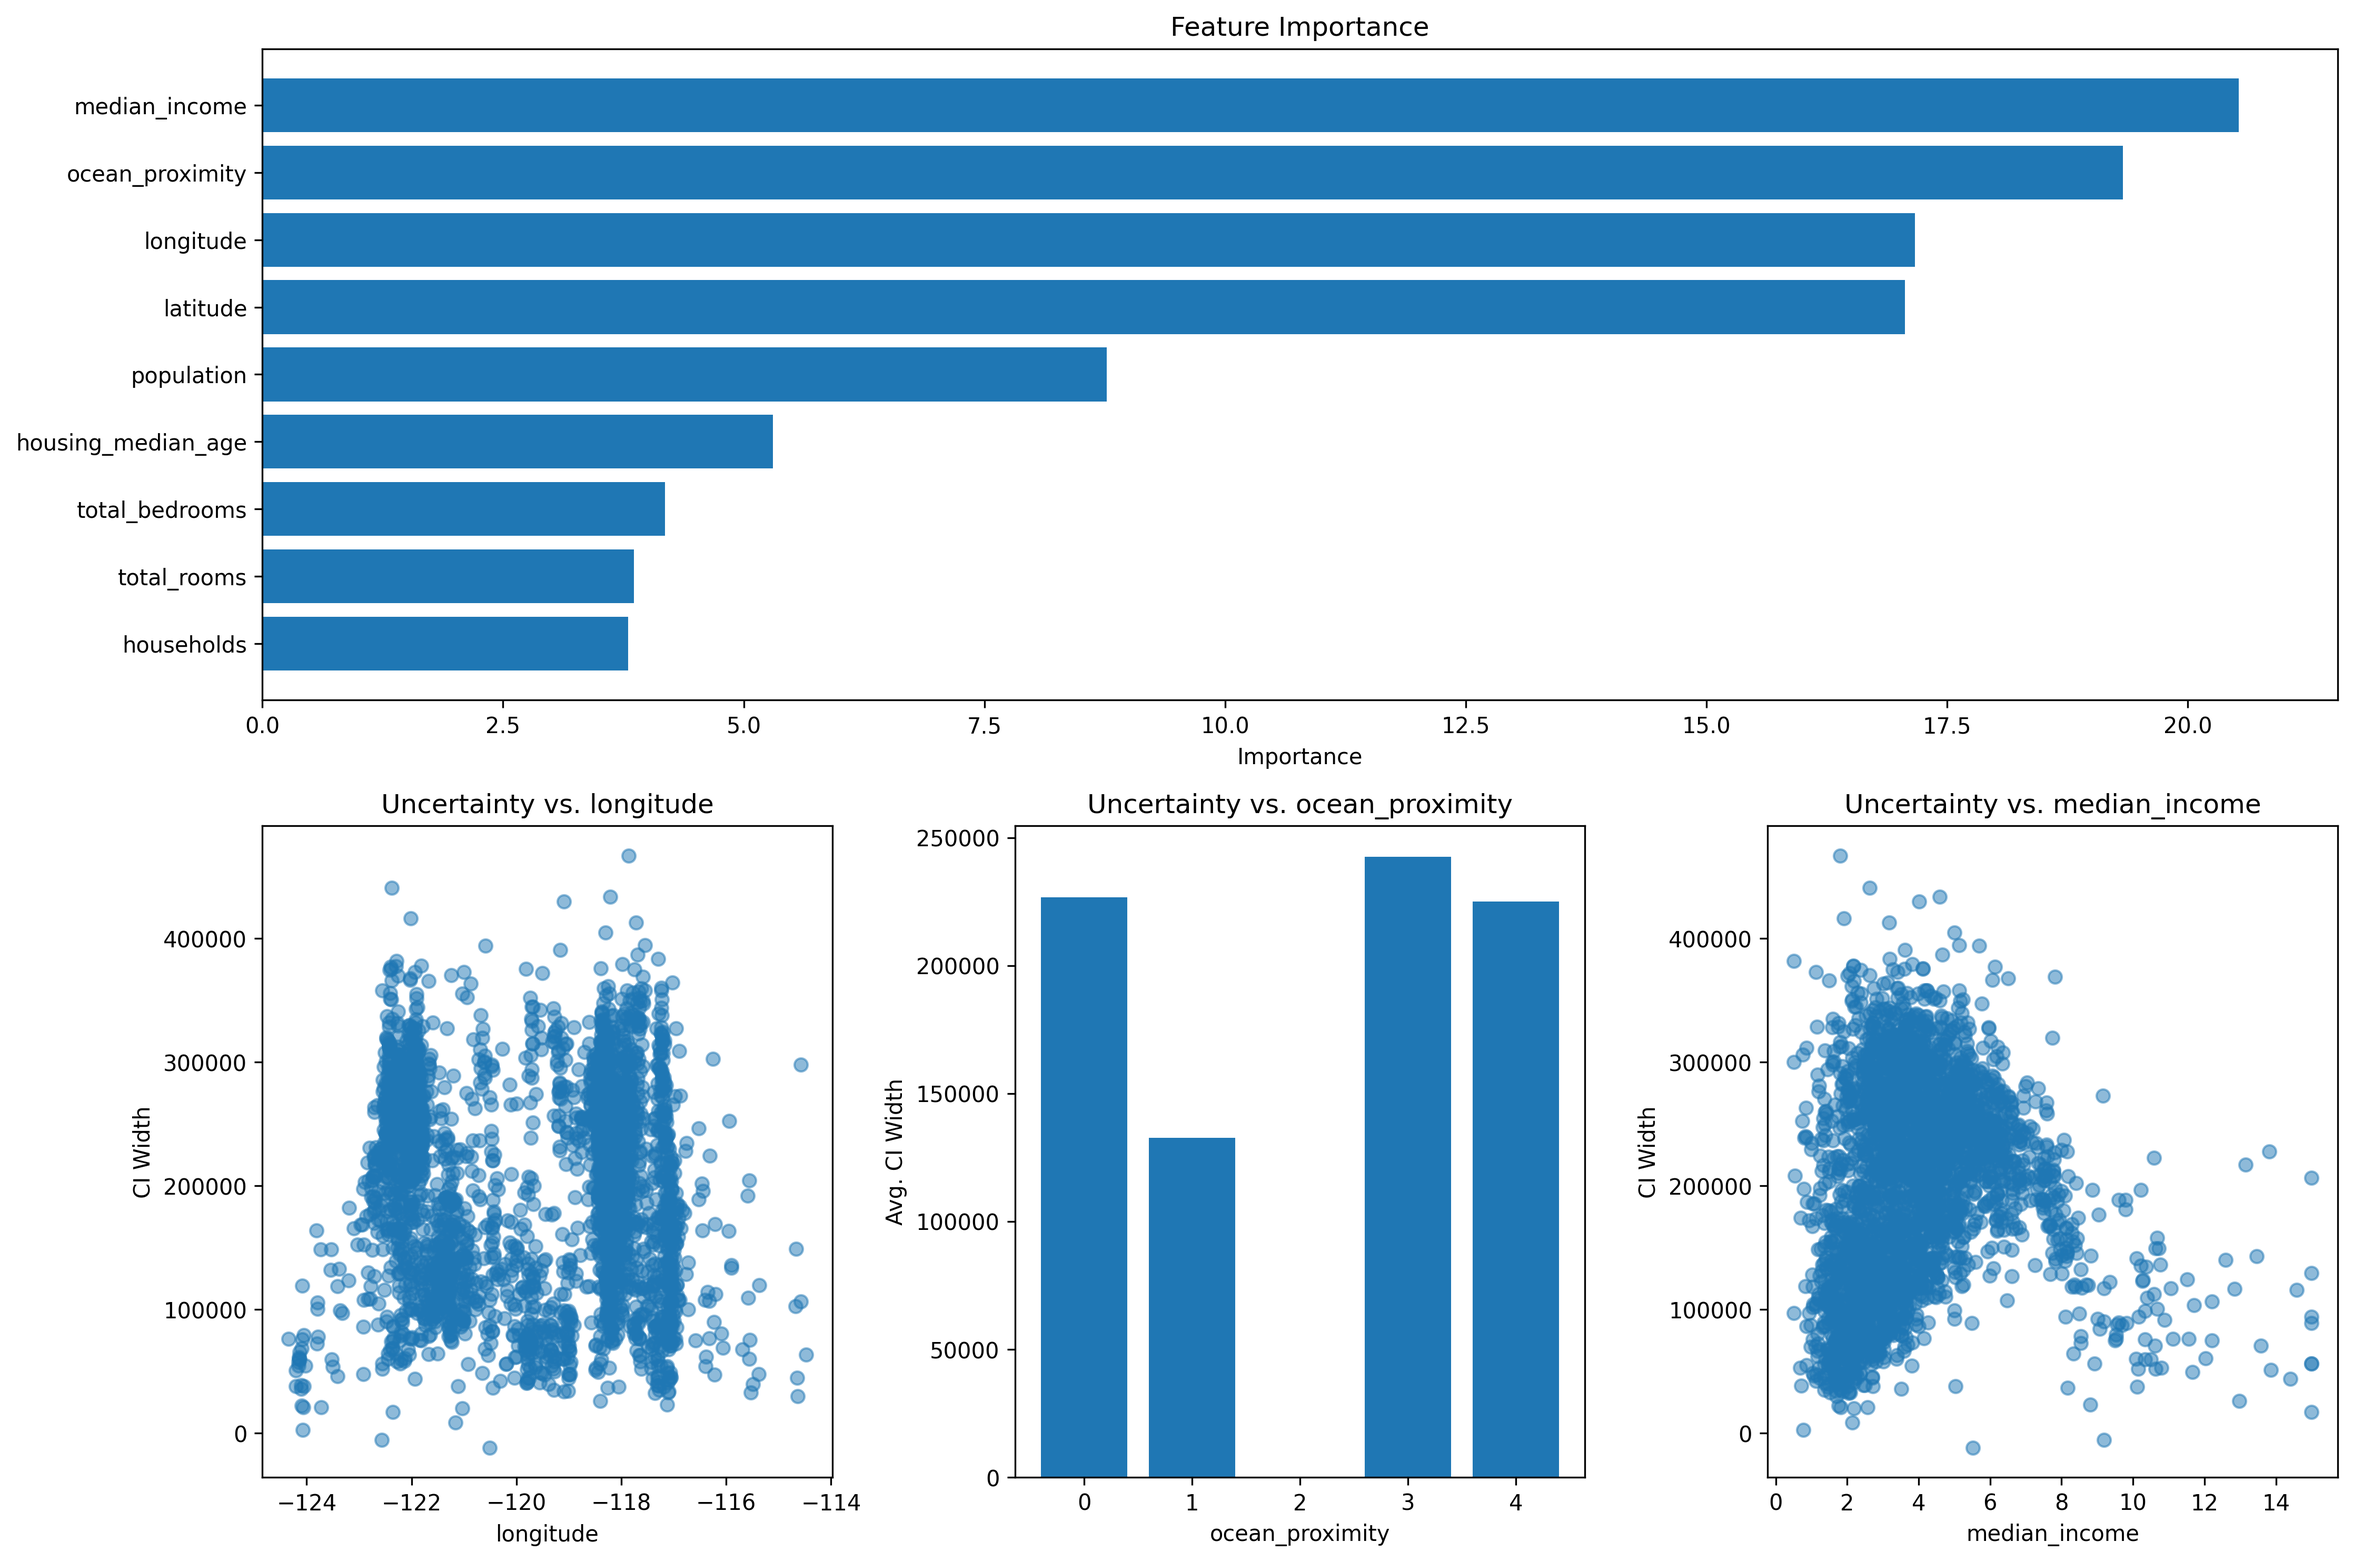
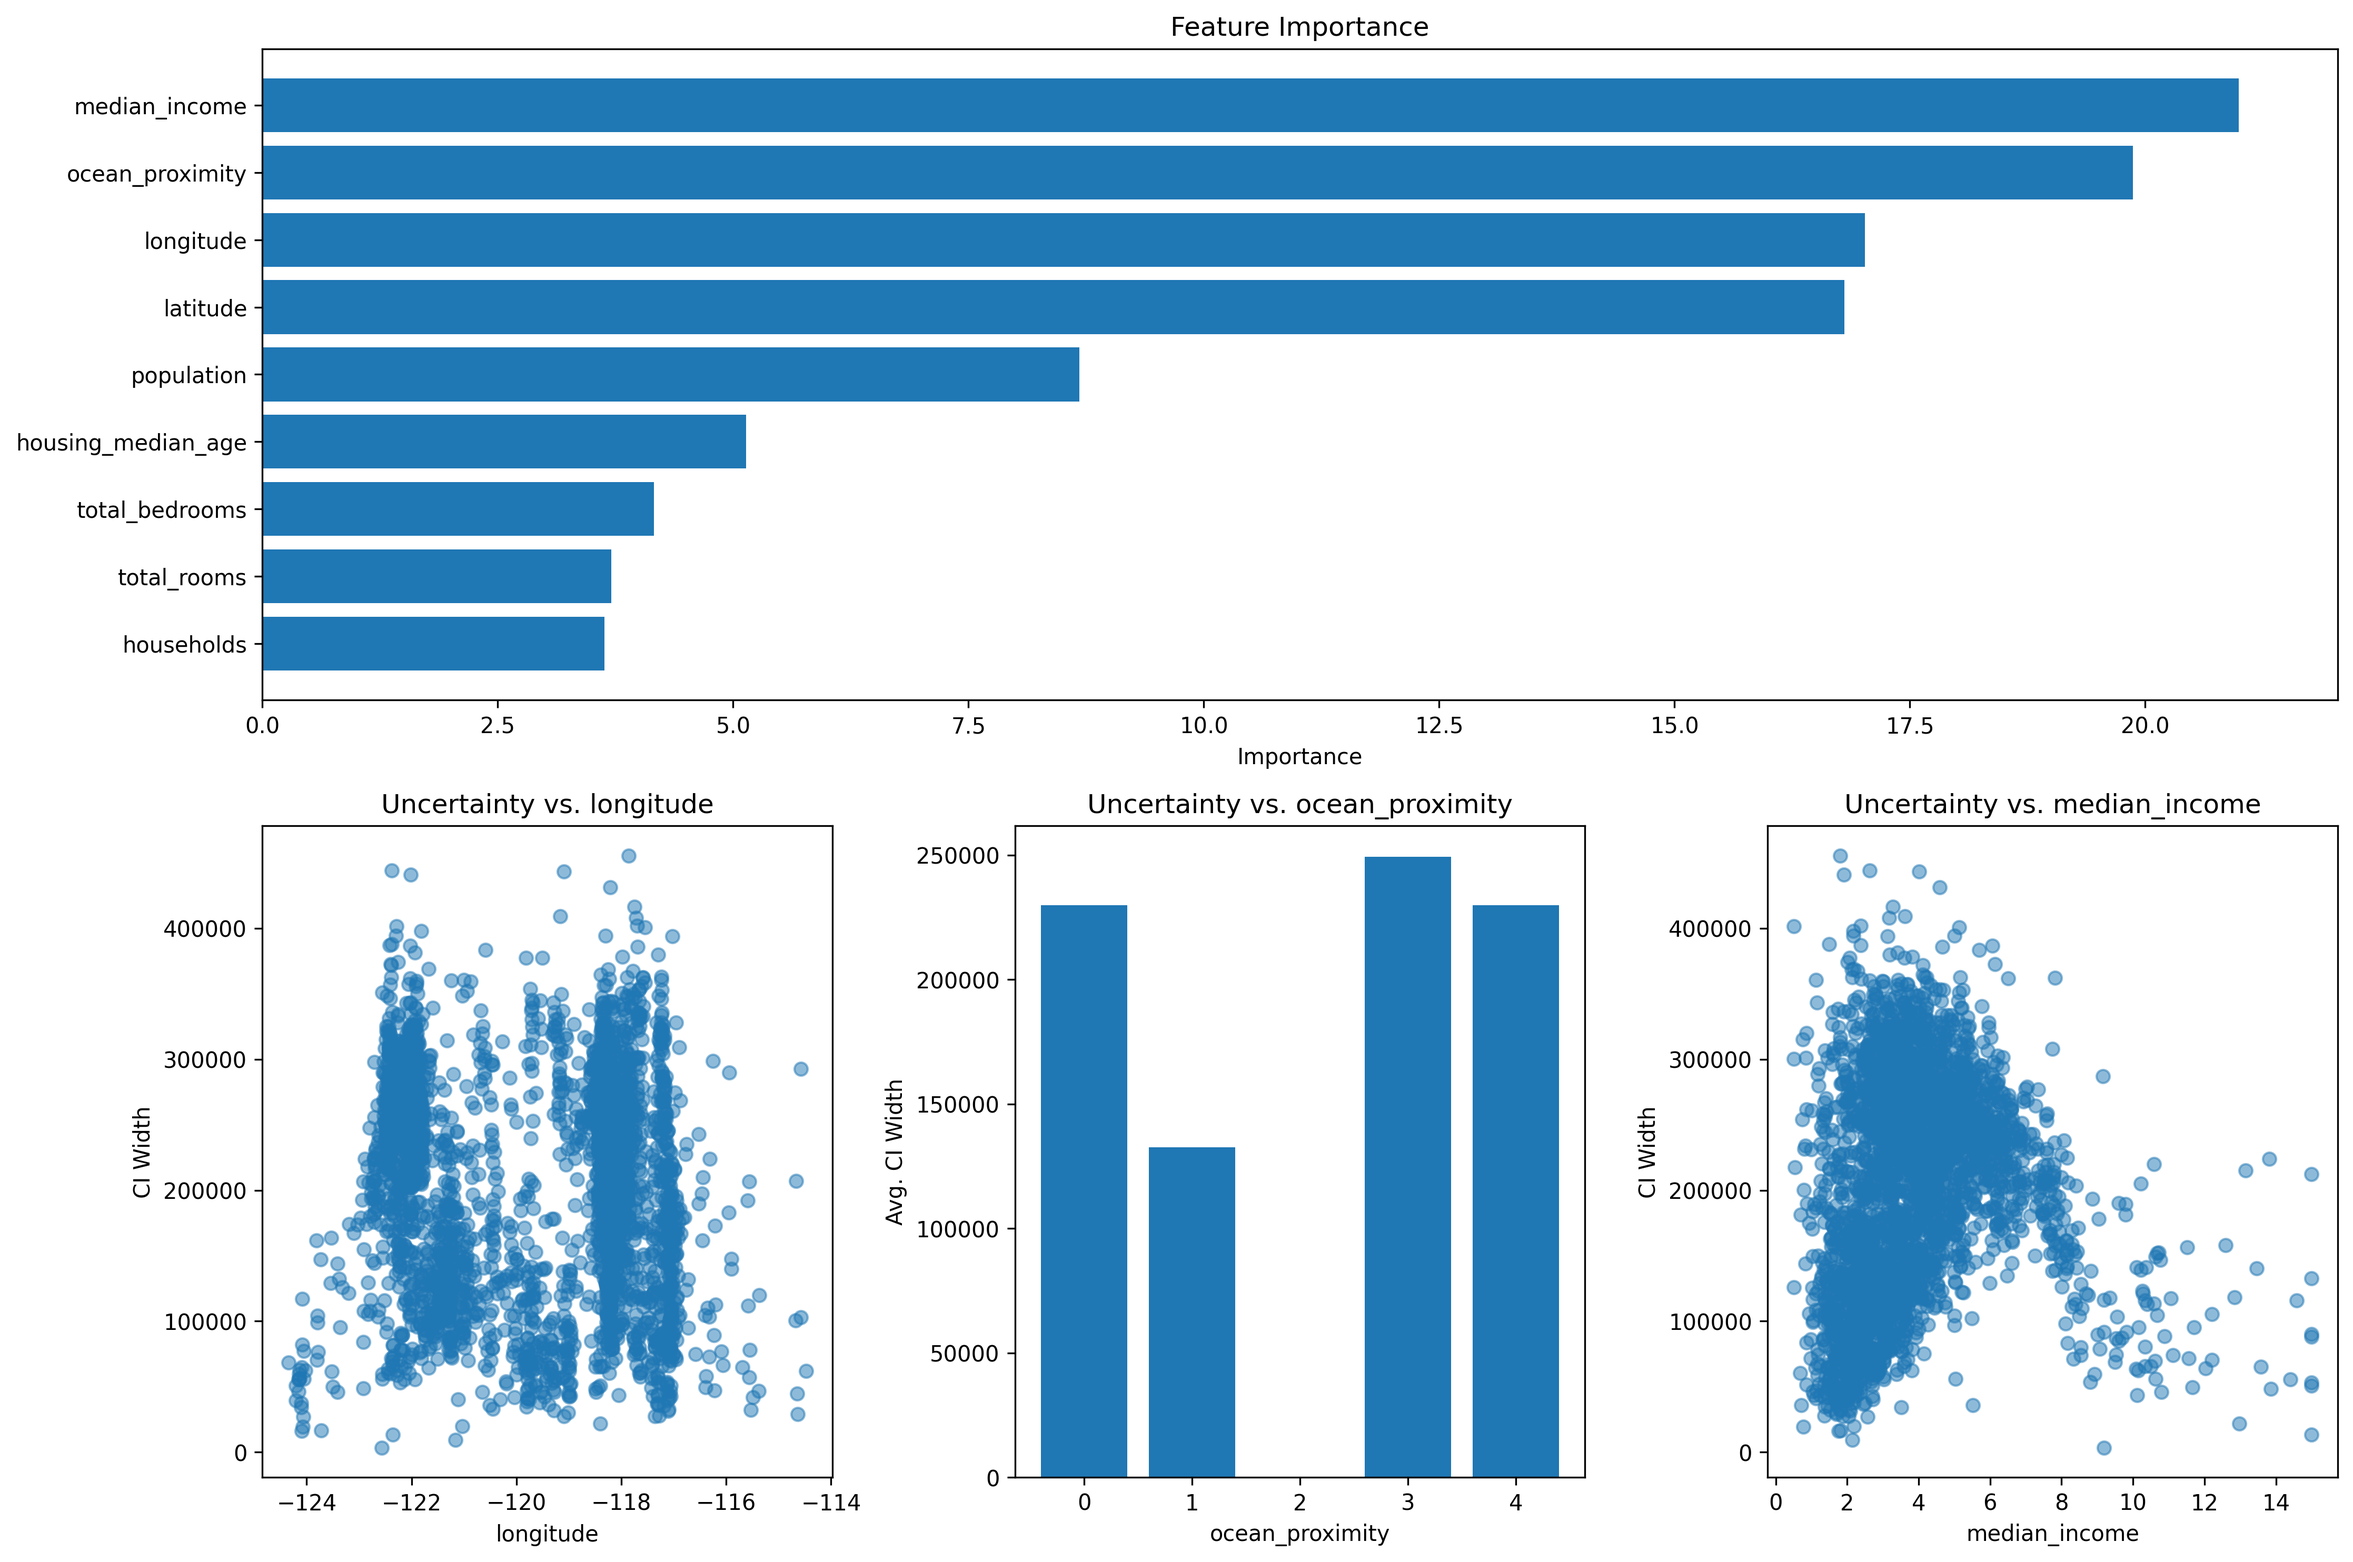
Use median from smoothed PDF as a way to do point prediction

diff --git a/prob_gbt/prob_gbt.py b/prob_gbt/prob_gbt.py
@@ -265,52 +265,26 @@ class ProbGBT:
     
     def predict(self, X, return_quantiles=False):
         """
-        Make predictions with the trained model.
+        Predict the target values for the given samples.
         
         Parameters:
         -----------
         X : pandas.DataFrame or numpy.ndarray
             Features to predict on.
         return_quantiles : bool, default=False
-            If True, return the raw quantile predictions.
+            Whether to return the predictions for all quantiles.
             
         Returns:
         --------
-        If return_quantiles=True:
-            numpy.ndarray: Raw quantile predictions with shape (n_samples, n_quantiles)
-        If return_quantiles=False:
-            numpy.ndarray: Mean predictions with shape (n_samples,)
+        numpy.ndarray: Predictions for the samples.
         """
         if self.train_separate_models and not self.trained_models:
             raise ValueError("Models have not been trained yet. Call train() first.")
         elif not self.train_separate_models and self.model is None:
             raise ValueError("Model has not been trained yet. Call train() first.")
         
-        # Get raw quantile predictions
-        if self.train_separate_models:
-            # Convert X to DataFrame if it's not already
-            if not isinstance(X, pd.DataFrame):
-                if len(X.shape) == 1:
-                    X = pd.DataFrame([X])
-                else:
-                    X = pd.DataFrame(X)
-            
-            # Get predictions for each quantile
-            quantile_preds = []
-            # Add tqdm progress bar
-            for i in tqdm(range(len(X)), desc="Making predictions"):
-                sample_preds = []
-                # Create a single-row DataFrame for this sample to preserve categorical features
-                sample_df = X.iloc[[i]]
-                
-                for q in self.quantiles:
-                    # Predict using the DataFrame directly instead of reshaping to numpy array
-                    sample_preds.append(self.trained_models[q].predict(sample_df)[0])
-                quantile_preds.append(sample_preds)
-            quantile_preds = np.array(quantile_preds)
-        else:
-            # Get quantile predictions from the single model
-            quantile_preds = self.model.predict(X)
+        # Get raw, uncalibrated quantile predictions from the model
+        quantile_preds = self._get_uncalibrated_predictions(X)
         
         # Apply calibration if enabled and model is calibrated
         if self.calibrate and self.is_calibrated:
@@ -349,17 +323,34 @@ class ProbGBT:
         if return_quantiles:
             return quantile_preds
         
-        # Return mean prediction (median)
+        # OPTION 1: Simple direct quantile approach (original method)
+        # Return direct 0.5 quantile prediction
         median_idx = np.searchsorted(self.quantiles, 0.5)
         if median_idx >= len(self.quantiles):
             median_idx = len(self.quantiles) - 1
         
-        # If quantile_preds is 2D, extract the median for each sample
-        if len(quantile_preds.shape) > 1:
-            return quantile_preds[:, median_idx]
-        else:
-            # For a single sample
-            return quantile_preds[median_idx]
+        # For consistency with the PDF shown in visualizations, we should use
+        # the median from the smoothed distribution, not the direct 0.5 quantile
+        
+        # OPTION 2: Calculate true median from smoothed PDF for each sample (more accurate)
+        # This ensures the prediction matches the median of the distribution shown in visualizations
+        medians = []
+        method = 'spline'  # Use the same method as in visualizations
+        num_points = 1000
+        
+        for i in tqdm(range(quantile_preds.shape[0]), desc="Calculating medians"):
+            # Get smoothed PDF and CDF
+            x_values, pdf_values, cdf_values, _ = self._get_smoothed_pdf(
+                quantile_preds, i, num_points=num_points, method=method
+            )
+            
+            # Find the median (point where CDF crosses 0.5)
+            median_idx = np.searchsorted(cdf_values, 0.5, side='left')
+            median_idx = max(0, min(median_idx, len(x_values) - 1))
+            median = x_values[median_idx]
+            medians.append(median)
+        
+        return np.array(medians)
     
     def _get_smoothed_pdf(self, quantile_preds, i, num_points=1000, method='spline'):
         """
@@ -617,6 +608,22 @@ class ProbGBT:
             # Store PDFs as a class attribute for later access
             self._last_pdfs = pdfs
             
+            # Ensure lower bounds are always less than upper bounds
+            lower_bounds = np.array(lower_bounds)
+            upper_bounds = np.array(upper_bounds)
+            
+            # Find cases where bounds are reversed
+            swap_indices = np.where(lower_bounds > upper_bounds)[0]
+            if len(swap_indices) > 0:
+                # Swap the values where needed
+                temp = lower_bounds[swap_indices].copy()
+                lower_bounds[swap_indices] = upper_bounds[swap_indices]
+                upper_bounds[swap_indices] = temp
+                
+                # Log warning if bounds were swapped
+                if len(swap_indices) > 0:
+                    print(f"Warning: Swapped {len(swap_indices)} lower/upper bounds where lower > upper.")
+            
             return lower_bounds, upper_bounds
         
         # If not calibrated, use smoothed approach
@@ -653,7 +660,23 @@ class ProbGBT:
         # Store PDFs as a class attribute for later access
         self._last_pdfs = pdfs
         
-        return np.array(lower_bounds), np.array(upper_bounds)
+        # Ensure lower bounds are always less than upper bounds
+        lower_bounds = np.array(lower_bounds)
+        upper_bounds = np.array(upper_bounds)
+        
+        # Find cases where bounds are reversed
+        swap_indices = np.where(lower_bounds > upper_bounds)[0]
+        if len(swap_indices) > 0:
+            # Swap the values where needed
+            temp = lower_bounds[swap_indices].copy()
+            lower_bounds[swap_indices] = upper_bounds[swap_indices]
+            upper_bounds[swap_indices] = temp
+            
+            # Log warning if bounds were swapped
+            if len(swap_indices) > 0:
+                print(f"Warning: Swapped {len(swap_indices)} lower/upper bounds where lower > upper.")
+        
+        return lower_bounds, upper_bounds
     
     def _get_uncalibrated_predictions(self, X):
         """

diff --git a/prob_gbt/example.py b/prob_gbt/example.py
@@ -5,9 +5,7 @@ import os
 import sys
 from sklearn.model_selection import train_test_split
 from matplotlib.gridspec import GridSpec
-from sklearn.preprocessing import StandardScaler
 from tqdm import tqdm
-
 # Use relative imports for the package
 from .prob_gbt import ProbGBT
 
@@ -44,7 +42,7 @@ def main():
     print("\nTraining ProbGBT model...")
     model = ProbGBT(
         num_quantiles=100,
-        iterations=3000, # If not calibrated, use less iterations to reduce overfitting
+        iterations=1000, # If not calibrated, use less iterations to reduce overfitting
         subsample=1.0,
         random_seed=1234,
         calibrate=True, # Enable conformal calibration (uses some of the training data to calibrate the model), 
@@ -68,9 +66,12 @@ def main():
     print("\nMaking predictions...")
     y_pred = model.predict(X_test)
 
-    # Calculate RMSE
+    # Calculate RMSE and MAE for the point predictions
     rmse = np.sqrt(np.mean((y_test - y_pred) ** 2))
+    mae = np.mean(np.abs(y_test - y_pred))
+    print(f"Point predictions from PDF median:")
     print(f"Root Mean Squared Error (RMSE): {rmse:.2f}")
+    print(f"Mean Absolute Error (MAE): {mae:.2f}")
 
     # Predict confidence intervals
     print("\nPredicting confidence intervals...")
@@ -136,19 +137,27 @@ def main():
     
     fig, axes = plt.subplots(1, 3, figsize=(15, 5))
     
-    # Second pass to plot without y-axis limit adjustments
+    # Plot each distribution separately with correct data
     for i, idx in enumerate(diverse_indices):
-        pdfs = model.predict_pdf(X_test.iloc[[idx]], method=smoothing_method)
+        # Get PDF for this specific sample
+        sample_pdfs = model.predict_pdf(X_test.iloc[[idx]], method=smoothing_method)
+        x_vals, pdf_vals = sample_pdfs[0]
         
-        axes[i].plot(x_values, pdf_values, label='PDF')
+        # Get prediction (median) for this sample
+        pred_val = y_pred[idx]
+        
+        # Plot the distribution and vertical lines
+        axes[i].plot(x_vals, pdf_vals, label='PDF')
         axes[i].axvline(x=y_test[idx], color='r', linestyle='--', label='Actual')
-        axes[i].axvline(x=y_pred[idx], color='g', linestyle='--', label='Predicted')
-        axes[i].fill_between(x_values, pdf_values, 
-                           where=(x_values >= lower_bounds[idx]) & (x_values <= upper_bounds[idx]), 
+        axes[i].axvline(x=pred_val, color='g', linestyle='--', label='Predicted')
+        
+        # Fill the 95% confidence interval
+        axes[i].fill_between(x_vals, pdf_vals, 
+                           where=(x_vals >= lower_bounds[idx]) & (x_vals <= upper_bounds[idx]), 
                            alpha=0.3, color='blue', label='95% CI')
         
         # Set y-axis limit to 1e-4 if there are values higher than that
-        y_max = np.max(pdf_values)
+        y_max = np.max(pdf_vals)
         if y_max > 1e-4:
             axes[i].set_ylim(0, 1e-4)
         
@@ -158,6 +167,7 @@ def main():
         if i == 0:
             axes[i].set_ylabel('Probability Density')
         axes[i].grid(True)
+        axes[i].legend()
     
     plt.tight_layout()
     plt.savefig('./images/multiple_pdfs.png', dpi=300, bbox_inches='tight')
@@ -166,6 +176,20 @@ def main():
     # 2. Confidence interval width vs. prediction error
     print("\nPlotting confidence interval width vs. prediction error...")
     ci_widths = upper_bounds - lower_bounds
+    
+    # Check for any invalid (negative) confidence interval widths
+    invalid_indices = np.where(ci_widths < 0)[0]
+    if len(invalid_indices) > 0:
+        print(f"WARNING: Found {len(invalid_indices)} samples with negative confidence interval widths!")
+        for idx in invalid_indices:
+            print(f"Sample {idx}: Lower bound ({lower_bounds[idx]:.2f}) > Upper bound ({upper_bounds[idx]:.2f})")
+            print(f"  Actual value: {y_test[idx]:.2f}, Predicted value: {y_pred[idx]:.2f}")
+            # Fix by swapping lower and upper bounds for this sample
+            lower_bounds[idx], upper_bounds[idx] = upper_bounds[idx], lower_bounds[idx]
+        
+        # Recalculate widths after fixing
+        ci_widths = upper_bounds - lower_bounds
+    
     prediction_errors = np.abs(y_test - y_pred)
     
     plt.figure(figsize=(10, 6))

diff --git a/setup.py b/setup.py
@@ -6,13 +6,14 @@ setup(
     packages=find_packages(),
     install_requires=[
         "numpy==1.22.4",
-        "pandas>=2.2.0",
-        "catboost>=1.2.0",
-        "scipy>=1.10.0",
-        "scikit-learn>=1.0.0",
+        "pandas>=2.2.2",
+        "catboost>=1.2.3",
+        "scikit-learn>=1.6.1",
+        "tqdm>=4.67.1",
         "pygam>=0.8.0,<=0.9.1",
-        "matplotlib>=3.5.0",
-        "tqdm>=4.60.0",
+        "properscoring>=0.1",
+        "matplotlib>=3.8.3",
+        "scipy>=1.10.0",
     ],
     entry_points={
         'console_scripts': [
